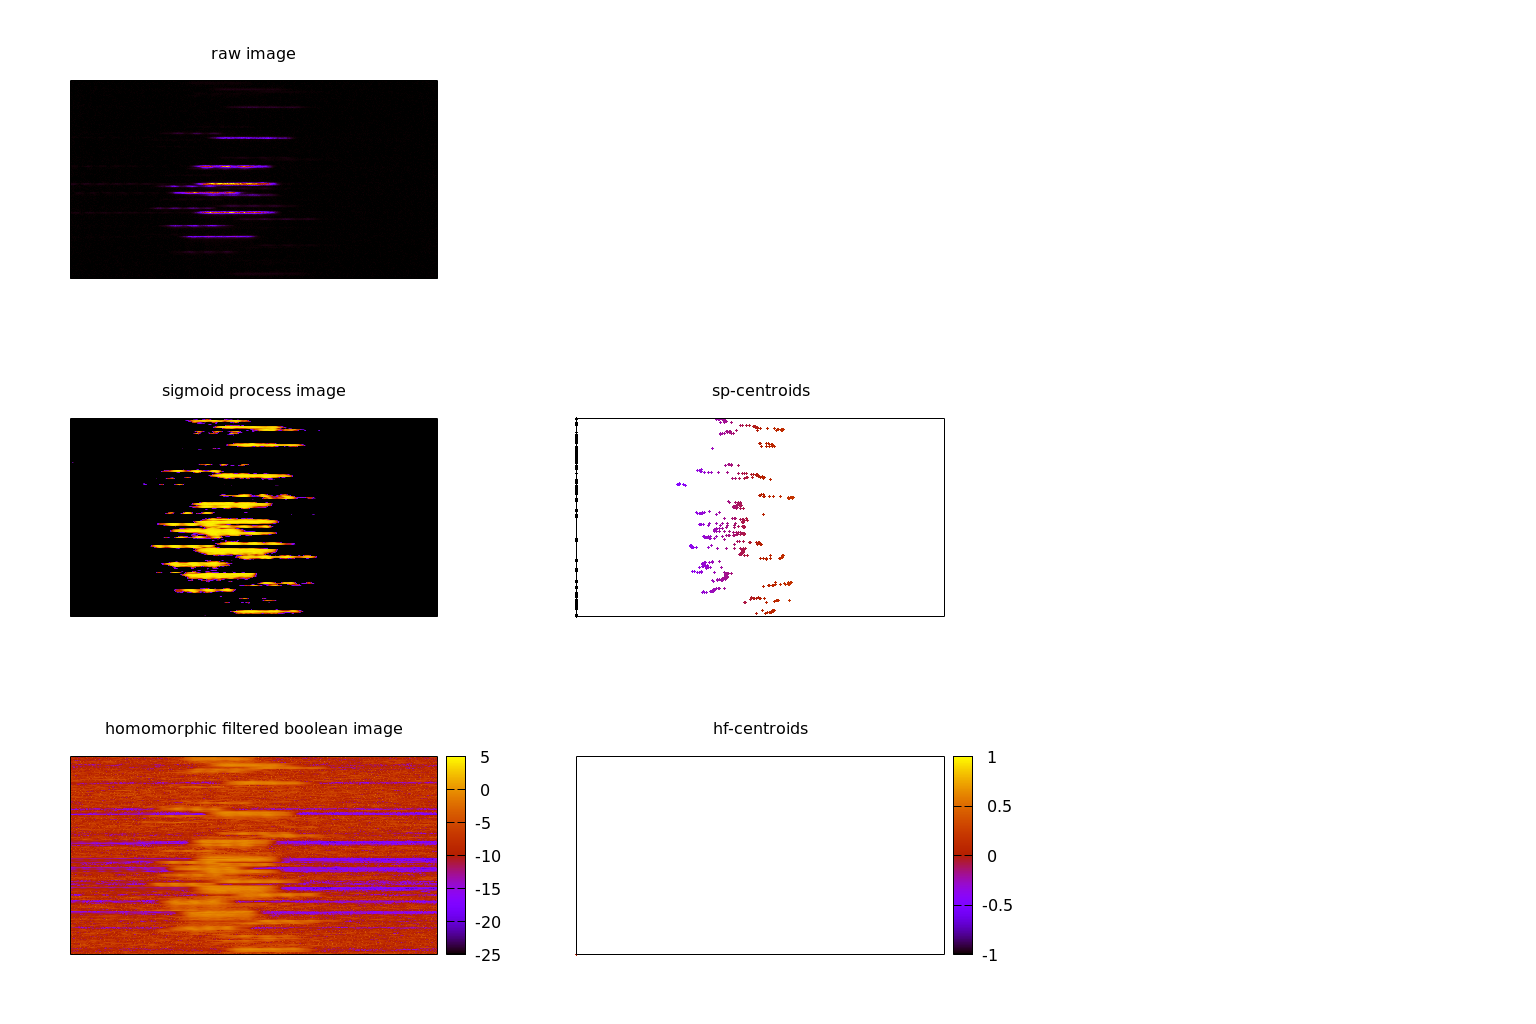
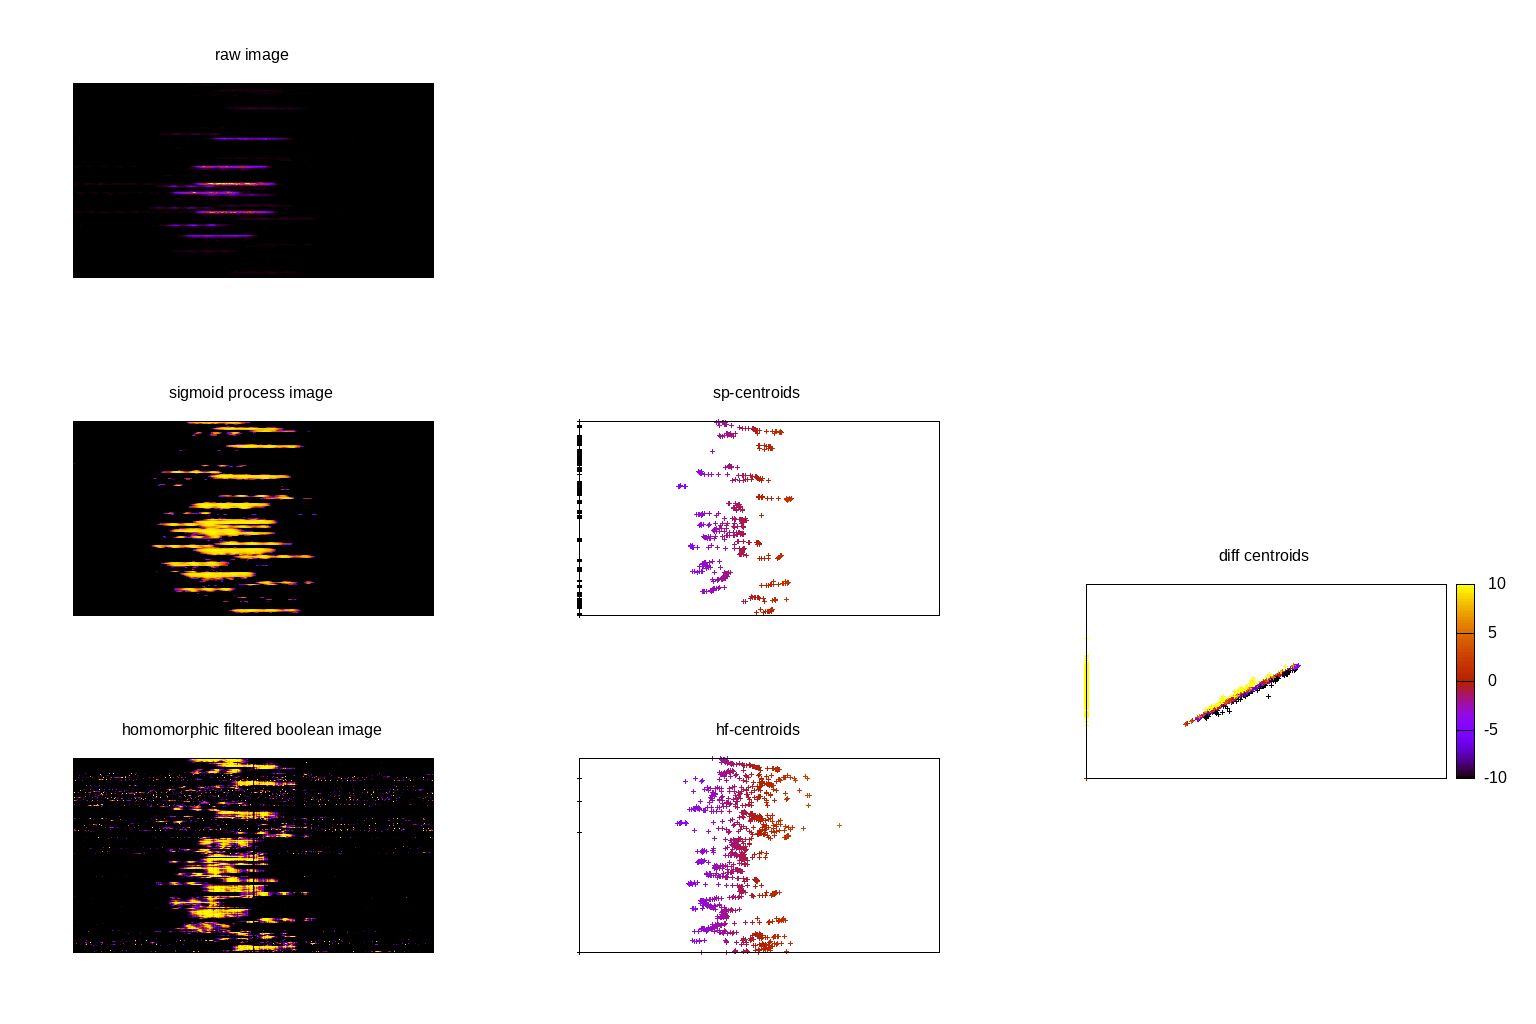
incremental

diff --git a/src/filter_2dTimeTool.py b/src/filter_2dTimeTool.py
@@ -4,8 +4,7 @@ import numpy as np
 import sys
 import re
 from utility import highpass,lowpass,gauss,sigmoid
-
-
+import cv2
 
 
 def main():
@@ -15,10 +14,10 @@ def main():
     f = np.array([])
     f_ = np.array([])
     for i,filename in enumerate(filenames):
-        m = re.match('(.*amox28216_r\d+_step\d+_image\d+.)dat',filename)
+        m = re.match('(.*)(amox28216_r\d+_step\d+_image\d+.)dat',filename)
         if m:
 ############### working a smoother, not boolean, version ##################
-            outname = m.group(1) + 'out'
+            outname = m.group(1) + m.group(2) + 'out'
             data = np.log(np.abs(np.loadtxt(filename))+1)#,skiprows=512))+1)
             scales = 1./(np.max(data,axis=1) - np.min(data,axis=1))
             if len(f)<data.shape[0]:
@@ -46,7 +45,7 @@ def main():
             sums = np.sum(out,axis=1)
             inds = np.where(sums>10)
             centroids[inds] = num[inds]/sums[inds]
-            outname = m.group(1) + 'simple.centroids.out'
+            outname = m.group(1) + m.group(2) + 'simple.centroids.out'
             np.savetxt(outname,centroids.T,fmt='%.2f')
             print(len(centroids[inds])/centroids.shape[0])
 
@@ -55,7 +54,7 @@ def main():
 
             #mulmat = np.outer(scales,derivfilt)
             #out = np.fft.ifft(DATA,axis=1).real
-            #outname = m.group(1) + 'deriv.out'
+            #outname = m.group(1) + m.group(2) + 'deriv.out'
             #np.savetxt(outname,out,fmt='%.2e')
 
 ############## this is the algo for homomorphic analysis #####################
@@ -71,38 +70,49 @@ def main():
             absout = np.abs(out)
             argout = np.angle(out)
 
+            scales = 1./(np.max(absout,axis=1) - np.min(absout,axis=1))
+            absout = absout*np.tile(scales,(absout.shape[1],1)).T
+
             a = np.log(absout)
             s = argout#np.sign(out)
             A = np.fft.fft(a,axis=1)
             B = np.copy(A)
             A *= gauss(f,0,.06)
             ALOW = np.copy(A)*gauss(f,0,.02)
-            B *= highpass(f,0.1,.1)*lowpass(f,.5,.1)
+            B *= highpass(f,0.1,.1)*lowpass(f,.3,.1)
             aa = np.fft.ifft(A,axis=1).real
             aalow = np.fft.ifft(ALOW,axis=1).real
             bb = np.fft.ifft(B,axis=1).real
 
             #out = np.ones(aalow.shape,dtype=float)*(aalow > .1)*(aa-bb > .1)
             out = (aa-bb)+(aalow-bb)
-            inds = np.where(out<0)
+            out = out - np.max(out,axis=1) + 1
+            out = sigmoid(out*5)
+            #out = out * 256./np.max(out)
+            #blur = cv2.medianBlur(out.astype(np.uint8),5)
+            #out = sigmoid(((blur.astype(float)/256.)-.9)*10)
+            #out = np.fft.ifft( np.fft.fft(np.copy(out),axis=0) * gauss(f_,0,.6),axis=0).real 
             #out[inds] = 0.
             #out *= 2.*np.tile(scales,(out.shape[1],1)).T
             #out -= np.tile(np.min(out,axis=1),(out.shape[1],1)).T + 1.
 
 
+
+            outname = m.group(1) + m.group(2) + 'lowfilt.out'
+            np.savetxt(outname,out,fmt='%.4e')
+
+
             ramp = np.arange(out.shape[1])
             ramp.shape = (1,len(ramp))
 
-            outname = m.group(1) + 'lowfilt.out'
-            np.savetxt(outname,out,fmt='%.4e')
-
-            centroids = np.zeros(out.shape[1],dtype=float)
+            hf_centroids = np.zeros(out.shape[1],dtype=float)
             num = np.sum(out*ramp,axis=1)
             sums = np.sum(out,axis=1)
             inds = np.where(sums>10)
-            centroids[inds] = num[inds]/sums[inds]
-            outname = m.group(1) + 'centroids.out'
-            np.savetxt(outname,centroids.T,fmt='%.2f')
+            hf_centroids[inds] = num[inds]/sums[inds]
+            outname = m.group(1) + m.group(2) + 'centroids.out'
+            headerstring = 'simple\thomomorph'
+            np.savetxt(outname,np.column_stack((centroids,hf_centroids)),fmt='%.2f',header=headerstring)
 
 
     return
